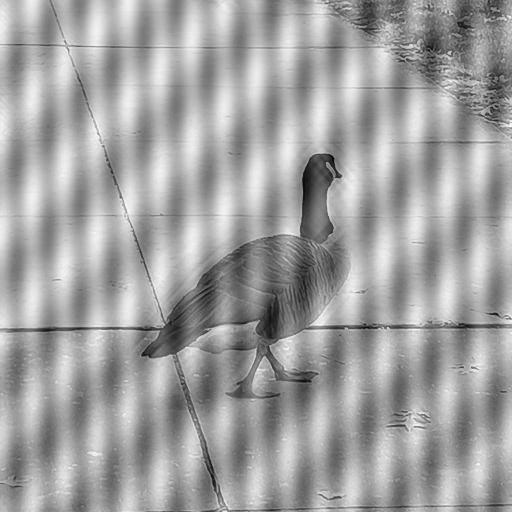
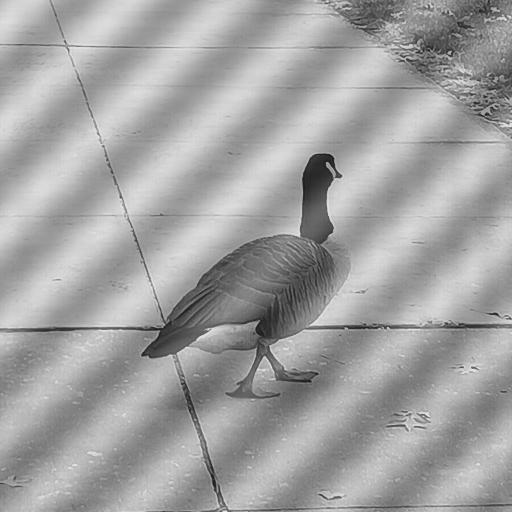
Cambios a punto 3.b tarea fourier

diff --git a/Taller 2 - Fourier/Punto 3.py b/Taller 2 - Fourier/Punto 3.py
@@ -1,6 +1,8 @@
 import numpy as np
 from PIL import Image
+import matplotlib.pyplot as plt
 import os
+from PIL import ImageDraw
 #print("Directorio actual:", os.getcwd())
 
 # ---------------------------
@@ -50,184 +52,146 @@ Image.fromarray(blurred_img_uint8).save("Taller 2 - Fourier/3.a.jpg")
 
 
 
-
+# Análisis y evidencias del espectro (para 3.b.a y 3.b.b)
+# Detecta picos fuertes en el espectro centrado y guarda espectros anotados
 # ---------------------------
 # PARTE B
 # ---------------------------
+def _compute_centered_spectrum(image_path: str) -> tuple[np.ndarray, np.ndarray]:
+    img = Image.open(image_path).convert("L")
+    arr = np.array(img, dtype=np.float64)
+    F = np.fft.fftshift(np.fft.fft2(arr))
+    mag = np.log1p(np.abs(F))
+    return F, mag
+
+def _to_u8(imgf: np.ndarray) -> np.ndarray:
+    mn, mx = float(imgf.min()), float(imgf.max())
+    if mx > mn:
+        imgn = (imgf - mn) / (mx - mn) * 255.0
+    else:
+        imgn = np.zeros_like(imgf)
+    return np.clip(imgn, 0, 255).astype(np.uint8)
+
+def detect_top_peaks(F: np.ndarray, top_k: int = 8, exclude_radius: int = 8, min_dist: int = 6):
+    """
+    Selecciona los top_k picos en magnitud (excluye centro con exclude_radius).
+    Devuelve lista de offsets (dy, dx) relativos al centro (solo un lado).
+    """
+    rows, cols = F.shape
+    cy, cx = rows // 2, cols // 2
+    mag = np.abs(F)
+
+    # Excluir región baja frecuencia alrededor del DC
+    yy, xx = np.ogrid[:rows, :cols]
+    mask_dc = (yy - cy) ** 2 + (xx - cx) ** 2 <= exclude_radius ** 2
+    mag_masked = mag.copy()
+    mag_masked[mask_dc] = 0.0
+
+    # Obtener índices ordenados por magnitud descendente
+    flat_idx = np.argsort(mag_masked.ravel())[::-1]
+    chosen = []
+    chosen_coords = []
+
+    for idx in flat_idx:
+        if len(chosen) >= top_k:
+            break
+        y, x = divmod(int(idx), cols)
+        # evitar cercanía a picos ya seleccionados
+        too_close = False
+        for (py, px) in chosen_coords:
+            if (y - py) ** 2 + (x - px) ** 2 < min_dist ** 2:
+                too_close = True
+                break
+        if too_close:
+            continue
+        # evitar el DC y bordes triviales
+        if mask_dc[y, x]:
+            continue
+        chosen_coords.append((y, x))
+        chosen.append((y - cy, x - cx))
+
+    return chosen
+
+def annotate_and_save_spectrum(F: np.ndarray, mag: np.ndarray, offsets: list[tuple[int, int]], out_path: str):
+    """
+    Guarda espectro log normalizado y una versión anotada (marcando picos y sus conjugados).
+    """
+    mag_u8 = _to_u8(mag)
+    # imagen espectro en RGB para anotación
+    spec_rgb = np.stack([mag_u8, mag_u8, mag_u8], axis=2)
+    img_spec = Image.fromarray(spec_rgb)
+    draw = ImageDraw.Draw(img_spec)
+    rows, cols = mag.shape
+    cy, cx = rows // 2, cols // 2
+
+    # marcar cada pico y su conjugado
+    r = 6
+    for (dy, dx) in offsets:
+        y1, x1 = cy + int(dy), cx + int(dx)
+        y2, x2 = cy - int(dy), cx - int(dx)
+        # círculos rojos
+        draw.ellipse((x1 - r, y1 - r, x1 + r, y1 + r), outline=(255, 0, 0), width=2)
+        draw.ellipse((x2 - r, y2 - r, x2 + r, y2 + r), outline=(255, 0, 0), width=2)
+        # línea al centro (opcional, visual ayuda)
+        draw.line((cx, cy, x1, y1), fill=(255, 0, 0), width=1)
+        draw.line((cx, cy, x2, y2), fill=(255, 0, 0), width=1)
+
+    os.makedirs(os.path.dirname(out_path), exist_ok=True)
+    img_spec.save(out_path)
+    print(f"Espectro anotado guardado en: {out_path}")
+
+# Ejecución inmediata (cuando se corre el script) para generar evidencia:
+if __name__ == "__main__":
+    pruebas = [
+        (r"Taller 2 - Fourier/Imagenes/p_a_t_o.jpg", r"Taller 2 - Fourier/esp_p_a_t_o_espectro_anotado.png", 8),
+        (r"Taller 2 - Fourier/Imagenes/g_a_t_o.png", r"Taller 2 - Fourier/esp_g_a_t_o_espectro_anotado.png", 8),
+    ]
+    for img_path, out_annot, topk in pruebas:
+        if not os.path.exists(img_path):
+            print(f"Advertencia: no se encontró {img_path}, omitiendo.")
+            continue
+        F, mag = _compute_centered_spectrum(img_path)
+        peaks = detect_top_peaks(F, top_k=topk, exclude_radius=10, min_dist=10)
+        print(f"Imagen: {img_path}")
+        print("Picos detectados (dy, dx) relativos al centro) — seleccionar estos pares y sus conjugados para enmascarar:")
+        for p in peaks:
+            print("  ", p)
+        annotate_and_save_spectrum(F, mag, peaks, out_annot)
+    print("Análisis de espectros (evidencias) generado. Revisa los archivos *_espectro_anotado.png")
+
 # -----------------------------------------------------------------------------
 # Utilidades de E/S
 # -----------------------------------------------------------------------------
-def load_grayscale_image(image_path: str) -> np.ndarray:
-    """Carga imagen en gris como float64 con validación de existencia."""
-    if not os.path.exists(image_path):
-        raise FileNotFoundError(f"No se encontró la imagen en la ruta indicada: {image_path}")
-    img = Image.open(image_path).convert("L")
-    return np.array(img, dtype=np.float64)
-
-
-def save_grayscale_image(image_array: np.ndarray, output_path: str) -> None:
-    """Guarda un array 2D como imagen en escala de grises (uint8)."""
-    # Normaliza a [0, 255]
-    arr = image_array
-    arr_min, arr_max = float(arr.min()), float(arr.max())
-    if arr_max > arr_min:
-        arr = (arr - arr_min) / (arr_max - arr_min) * 255.0
-    arr_u8 = np.clip(arr, 0, 255).astype(np.uint8)
-    os.makedirs(os.path.dirname(output_path), exist_ok=True)
-    Image.fromarray(arr_u8).save(output_path)
-    print(f"Imagen guardada en: {output_path}")
-
-
-def save_spectrum(Fs: np.ndarray, output_path: str) -> None:
-    """Guarda el espectro (magnitud log) como PNG en escala de grises."""
-    mag = np.log1p(np.abs(Fs))
-    mn, mx = float(mag.min()), float(mag.max())
-    if mx > mn:
-        mag = (mag - mn) / (mx - mn) * 255.0
-    spec_u8 = np.clip(mag, 0, 255).astype(np.uint8)
-    os.makedirs(os.path.dirname(output_path), exist_ok=True)
-    Image.fromarray(spec_u8).save(output_path)
-    print(f"Espectro guardado en: {output_path}")
-
-
-# -----------------------------------------------------------------------------
-# FFT helpers
-# -----------------------------------------------------------------------------
-def fft2_centered(image: np.ndarray) -> np.ndarray:
-    F = np.fft.fft2(image)
-    return np.fft.fftshift(F)
-
-
-def ifft2_centered(Fs: np.ndarray) -> np.ndarray:
-    F = np.fft.ifftshift(Fs)
-    img = np.fft.ifft2(F)
-    return np.real(img)
-
-
-# -----------------------------------------------------------------------------
-# Enmascarado de picos (robusto contra bordes)
-# -----------------------------------------------------------------------------
-def zero_peak_region(Fs: np.ndarray, y: int, x: int, radius: int,
-                     soft: bool = False, sigma: float | None = None, strength: float = 1.0) -> None:
-    """
-    Anula (o atenúa suavemente) un disco centrado en (y, x) con radio 'radius' sobre Fs.
-    Trabaja en un recorte local para evitar desajustes de forma cerca de los bordes.
-    """
-    rows, cols = Fs.shape
-    y0 = max(0, y - radius)
-    y1 = min(rows, y + radius + 1)
-    x0 = max(0, x - radius)
-    x1 = min(cols, x + radius + 1)
-
-    if y0 >= y1 or x0 >= x1:
-        return  # completamente fuera
-
-    yy, xx = np.ogrid[y0:y1, x0:x1]
-    mask_local = (yy - y) ** 2 + (xx - x) ** 2 <= radius ** 2
-
-    patch = Fs[y0:y1, x0:x1]
-    if not soft:
-        patch[mask_local] = 0
-    else:
-        # Atenuación tipo notch gaussiano para reducir ringing
-        if sigma is None:
-            sigma = max(1.0, radius / 2.0)
-        g = np.exp(-((yy - y) ** 2 + (xx - x) ** 2) / (2.0 * sigma * sigma))
-        patch[mask_local] = patch[mask_local] * (1.0 - strength * g[mask_local])
-
-    Fs[y0:y1, x0:x1] = patch
-
-
-def remove_peaks(Fs: np.ndarray, offsets: list[tuple[int | float, int | float]],
-                 base_radius: int = 14, soft: bool = False) -> np.ndarray:
-    """
-    Aplica enmascaramiento en pares (dy, dx) y (-dy, -dx) relativos al centro del espectro.
-    Preserva el componente DC.
-    """
-    rows, cols = Fs.shape
+def remove_peaks_and_save(img_path: str, out_path: str, top_k: int = 8, exclude_radius: int = 10, min_dist: int = 10):
+    # Cargar imagen y calcular espectro
+    img = Image.open(img_path).convert("L")
+    arr = np.array(img, dtype=np.float64)
+    F = np.fft.fftshift(np.fft.fft2(arr))
+    peaks = detect_top_peaks(F, top_k=top_k, exclude_radius=exclude_radius, min_dist=min_dist)
+    rows, cols = F.shape
     cy, cx = rows // 2, cols // 2
-    out = Fs.copy()
 
-    for (dy, dx) in offsets:
-        y = cy + int(round(dy))
-        x = cx + int(round(dx))
-        ys = cy - int(round(dy))
-        xs = cx - int(round(dx))
+    # Eliminar picos y sus conjugados
+    for dy, dx in peaks:
+        y1, x1 = cy + int(dy), cx + int(dx)
+        y2, x2 = cy - int(dy), cx - int(dx)
+        F[y1, x1] = 0
+        F[y2, x2] = 0
 
-        # Radio (constante o levemente adaptativo si deseas)
-        radius = int(base_radius)
+    # Reconstruir imagen
+    arr_mod = np.real(np.fft.ifft2(np.fft.ifftshift(F)))
+    arr_mod_u8 = np.clip(arr_mod, 0, 255).astype(np.uint8)
+    Image.fromarray(arr_mod_u8).save(out_path)
+    print(f"Imagen sin interferencia guardada en: {out_path}")
 
-        zero_peak_region(out, y, x, radius, soft=soft)
-        zero_peak_region(out, ys, xs, radius, soft=soft)
-
-    # Preservar DC (brillo global)
-    out[cy, cx] = Fs[cy, cx]
-    return out
-
-
-# -----------------------------------------------------------------------------
-# Pipeline de procesamiento para una imagen
-# -----------------------------------------------------------------------------
-def process_image(image_path: str, output_image_path: str,
-                  manual_offsets: list[tuple[int | float, int | float]],
-                  base_radius: int = 14, soft: bool = False) -> None:
-    """
-    1) Carga imagen en gris
-    2) FFT2 centrada
-    3) Anulación MANUAL de picos en 'manual_offsets' (pares conjugados)
-    4) IFFT y guardado de imagen filtrada
-    5) Guardado de espectro filtrado (mismo nombre + _espectro.png)
-    """
-    # Cargar
-    img = load_grayscale_image(image_path)
-
-    # FFT centrada
-    Fs = fft2_centered(img)
-
-    # Anular picos manualmente
-    Fs_filt = remove_peaks(Fs, manual_offsets, base_radius=base_radius, soft=soft)
-
-    # Reconstrucción
-    img_rec = ifft2_centered(Fs_filt)
-
-    # Guardado de imagen
-    save_grayscale_image(img_rec, output_image_path)
-
-    # Guardado de espectro
-    base, ext = os.path.splitext(output_image_path)
-    spectrum_path = f"{base}_espectro.png"
-    save_spectrum(Fs_filt, spectrum_path)
-
-
-# -----------------------------------------------------------------------------
-# Entradas/salidas del ejercicio 3.b – EJECUCIÓN DIRECTA
-# -----------------------------------------------------------------------------
+# Ejecutar para las dos imágenes de ejemplo
 if __name__ == "__main__":
-    # Directorio de salida
-    out_dir = r"Taller 2 - Fourier"
-    os.makedirs(out_dir, exist_ok=True)
-
-    # 3.b.a – P_a_t_o: picos diagonales (ajustados a patrón típico)
-    pato_path = r"Taller 2 - Fourier/Imagenes/p_a_t_o.jpg"
-    pato_out = os.path.join(out_dir, "3.b.a.jpg")
-    # Offsets manuales relativos al centro (dy, dx)
-    # Pares principales + segundo armónico para robustez
-    pato_offsets = [
-        (40, 40), (-40, 40), (40, -40), (-40, -40),
-        (80, 80), (-80, 80), (80, -80), (-80, -80),
+    pruebas_b = [
+        (r"Taller 2 - Fourier/Imagenes/p_a_t_o.jpg", r"Taller 2 - Fourier/3.b.a.jpg", 8),
+        (r"Taller 2 - Fourier/Imagenes/g_a_t_o.png", r"Taller 2 - Fourier/3.b.b.png", 8),
     ]
-    process_image(pato_path, pato_out, manual_offsets=pato_offsets, base_radius=14, soft=False)
-
-    # 3.b.b – G_a_t_o: patrón tipo “persianas” (vertical y horizontal)
-    gato_path = r"Taller 2 - Fourier/Imagenes/g_a_t_o.png"
-    gato_out = os.path.join(out_dir, "3.b.b.png")
-    # Pares principales (fundamental) en ejes horizontal y vertical + segundo armónico
-    gato_offsets = [
-        (0, 48), (0, -48),   # vertical
-        (48, 0), (-48, 0),   # horizontal
-        (0, 96), (0, -96),   # armónico vertical
-        (96, 0), (-96, 0),   # armónico horizontal
-    ]
-    process_image(gato_path, gato_out, manual_offsets=gato_offsets, base_radius=12, soft=False)
-
-    print("Procesamiento 3.b completado. Revisa las imágenes en:", out_dir)
+    for img_path, out_path, topk in pruebas_b:
+        if not os.path.exists(img_path):
+            print(f"Advertencia: no se encontró {img_path}, omitiendo.")
+            continue
+        remove_peaks_and_save(img_path, out_path, top_k=topk, exclude_radius=10, min_dist=10)
